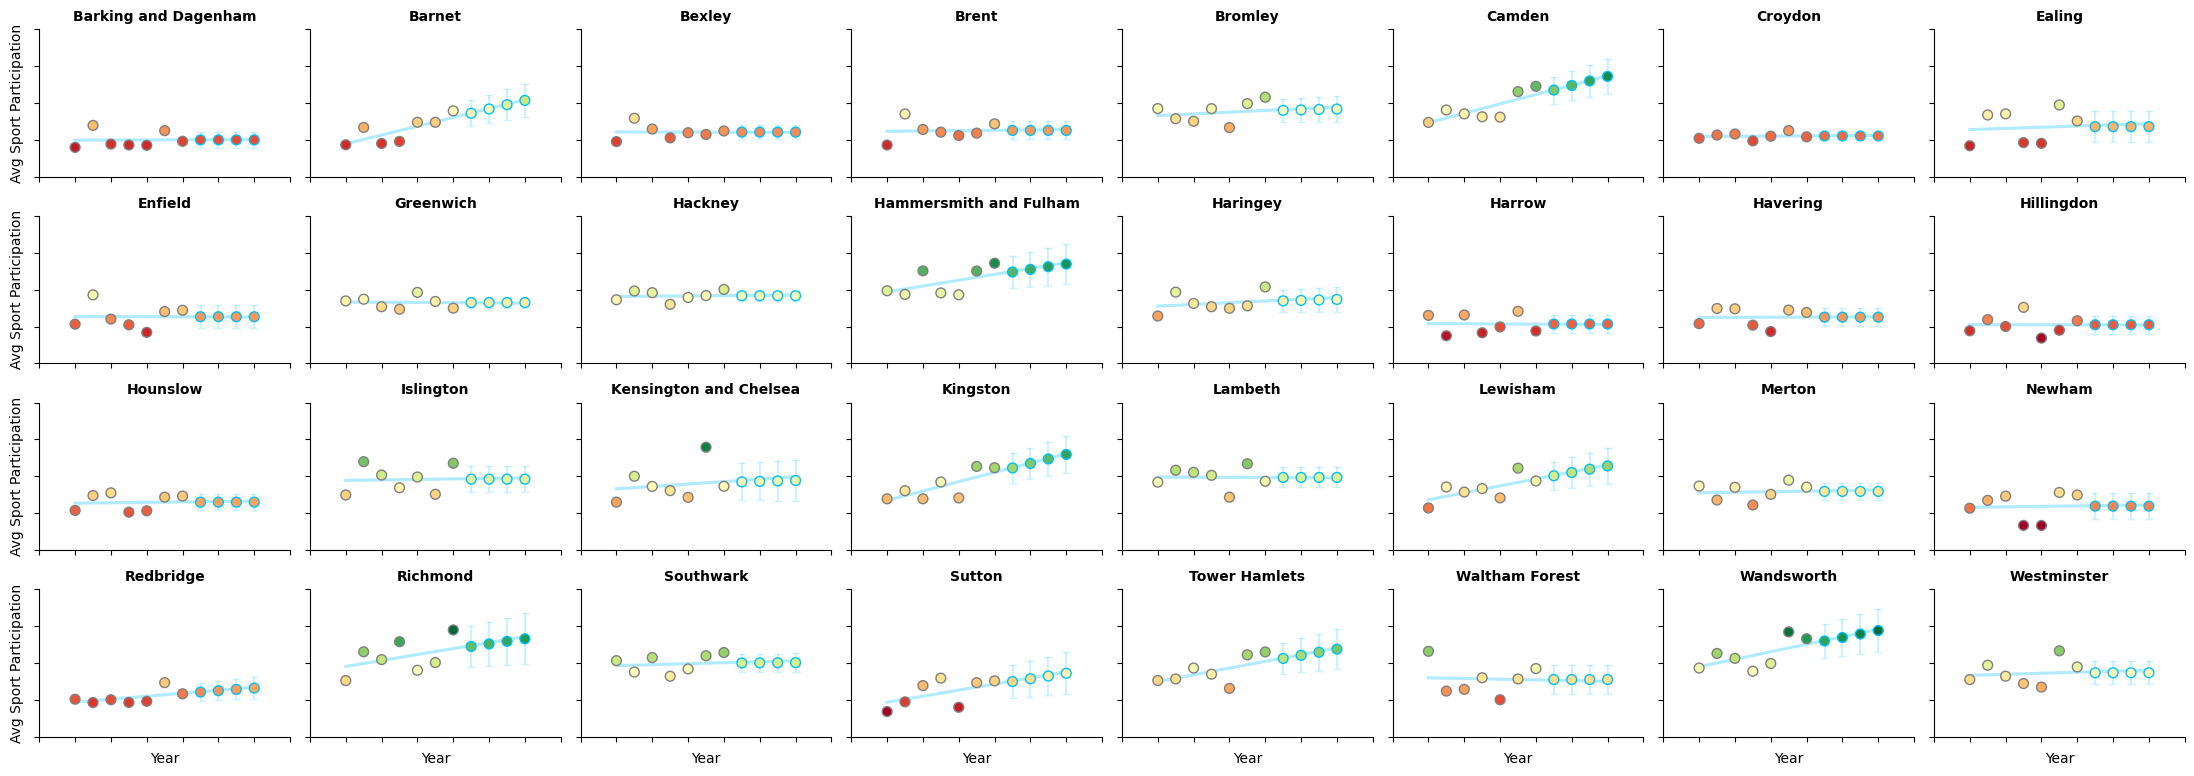
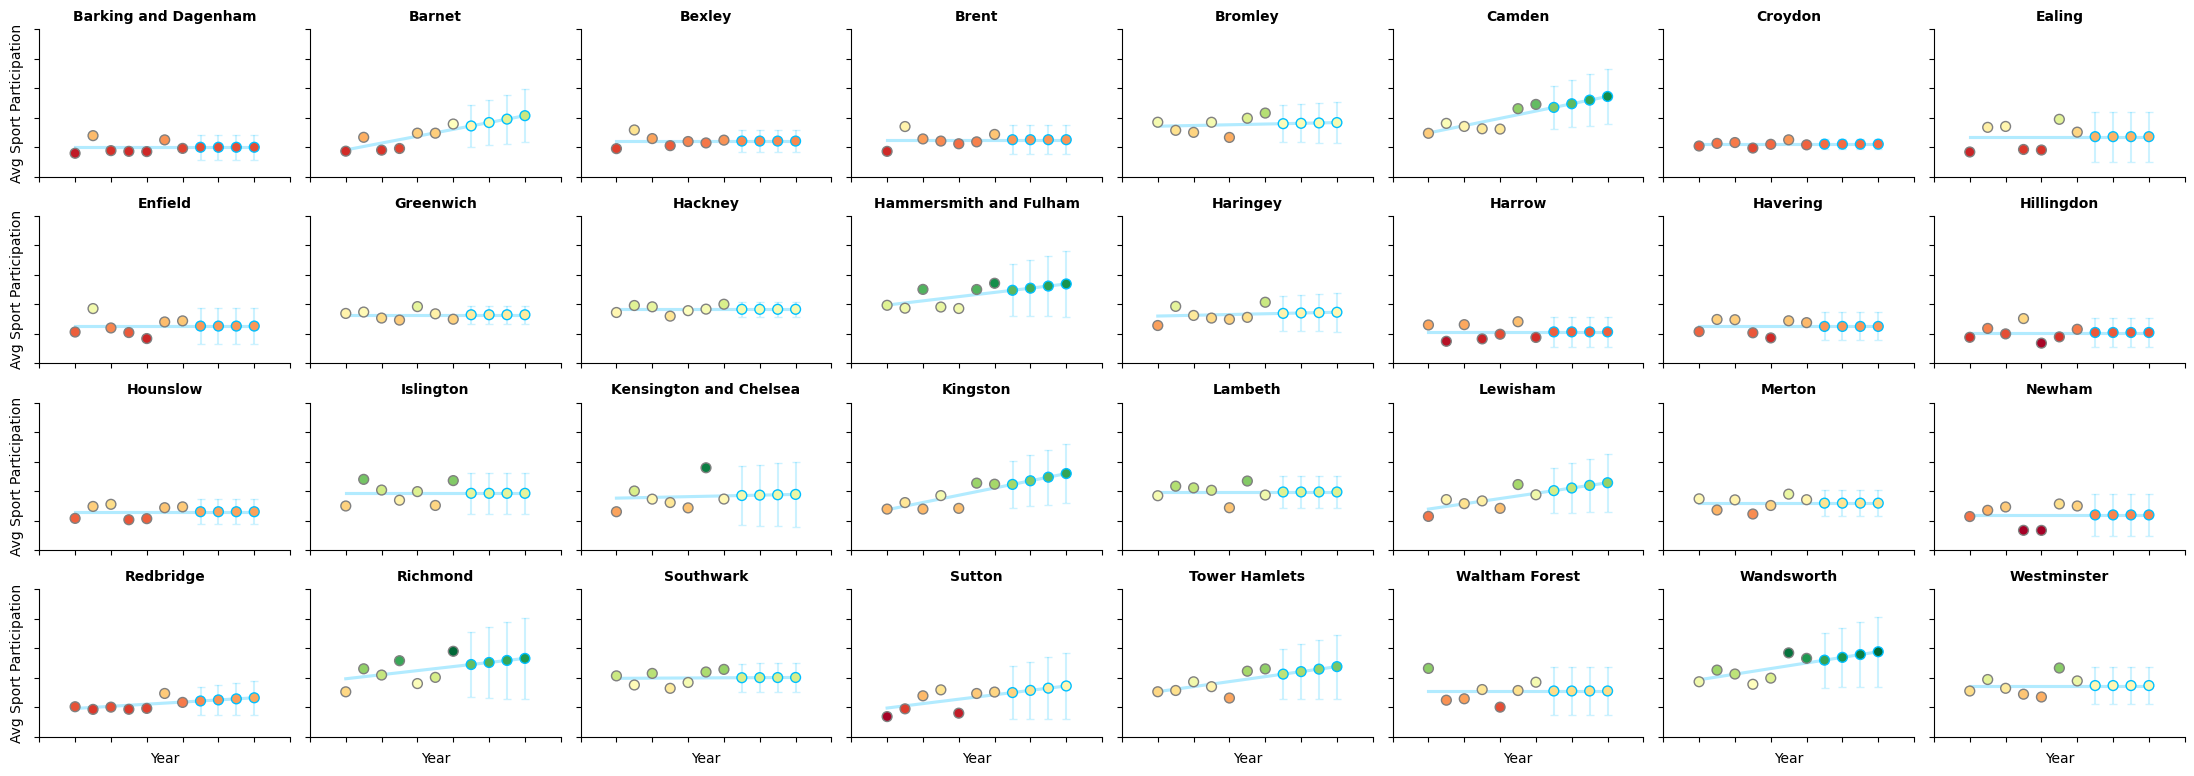
KAN-50: Fix regression line logic

diff --git a/src/stream_1/bayesian_regression.py b/src/stream_1/bayesian_regression.py
@@ -20,9 +20,10 @@ def bayesian_ridge_forecast_borough(included_years : list, forecast_years: list,
         Y_forecast, E_forecast = model.predict(X_forecast, return_std = True)    
         years_full = included_years + forecast_years
         participation_full = np.concat((Y_train, Y_forecast))
+        predicted_full = model.predict(np.concat((X_train, X_forecast))) 
         error_full = np.concat((np.zeros(len(Y_train)), E_forecast))
-        for year, participation, error in zip(years_full, participation_full, error_full):
-            output.append({'borough': borough, 'year' : year, 'participation' : participation, 'error' : error})
+        for year, participation, error, predicted in zip(years_full, participation_full, error_full, predicted_full):
+            output.append({'borough': borough, 'year' : year, 'participation' : participation, 'error' : error, 'predicted' : predicted})
     return pd.DataFrame(output)
 
 # Forecast Visualisation
@@ -52,12 +53,13 @@ if __name__ == "__main__":
         # Add regression line
         sns.regplot(data = borough_df, 
                     x = 'year', 
-                    y = 'participation',
+                    y = 'predicted',
                     ax = ax,
                     scatter = False,
                     ci = None,
                     color = '#00BFFF',
                     line_kws = {'alpha': 0.3, 'zorder': 0})
+        
         # Add erorr bars to forecast datapoints
         forecast_df = borough_df[borough_df['year'].isin(FORECAST_YEARS)]
         ax.errorbar(x = forecast_df['year'],
